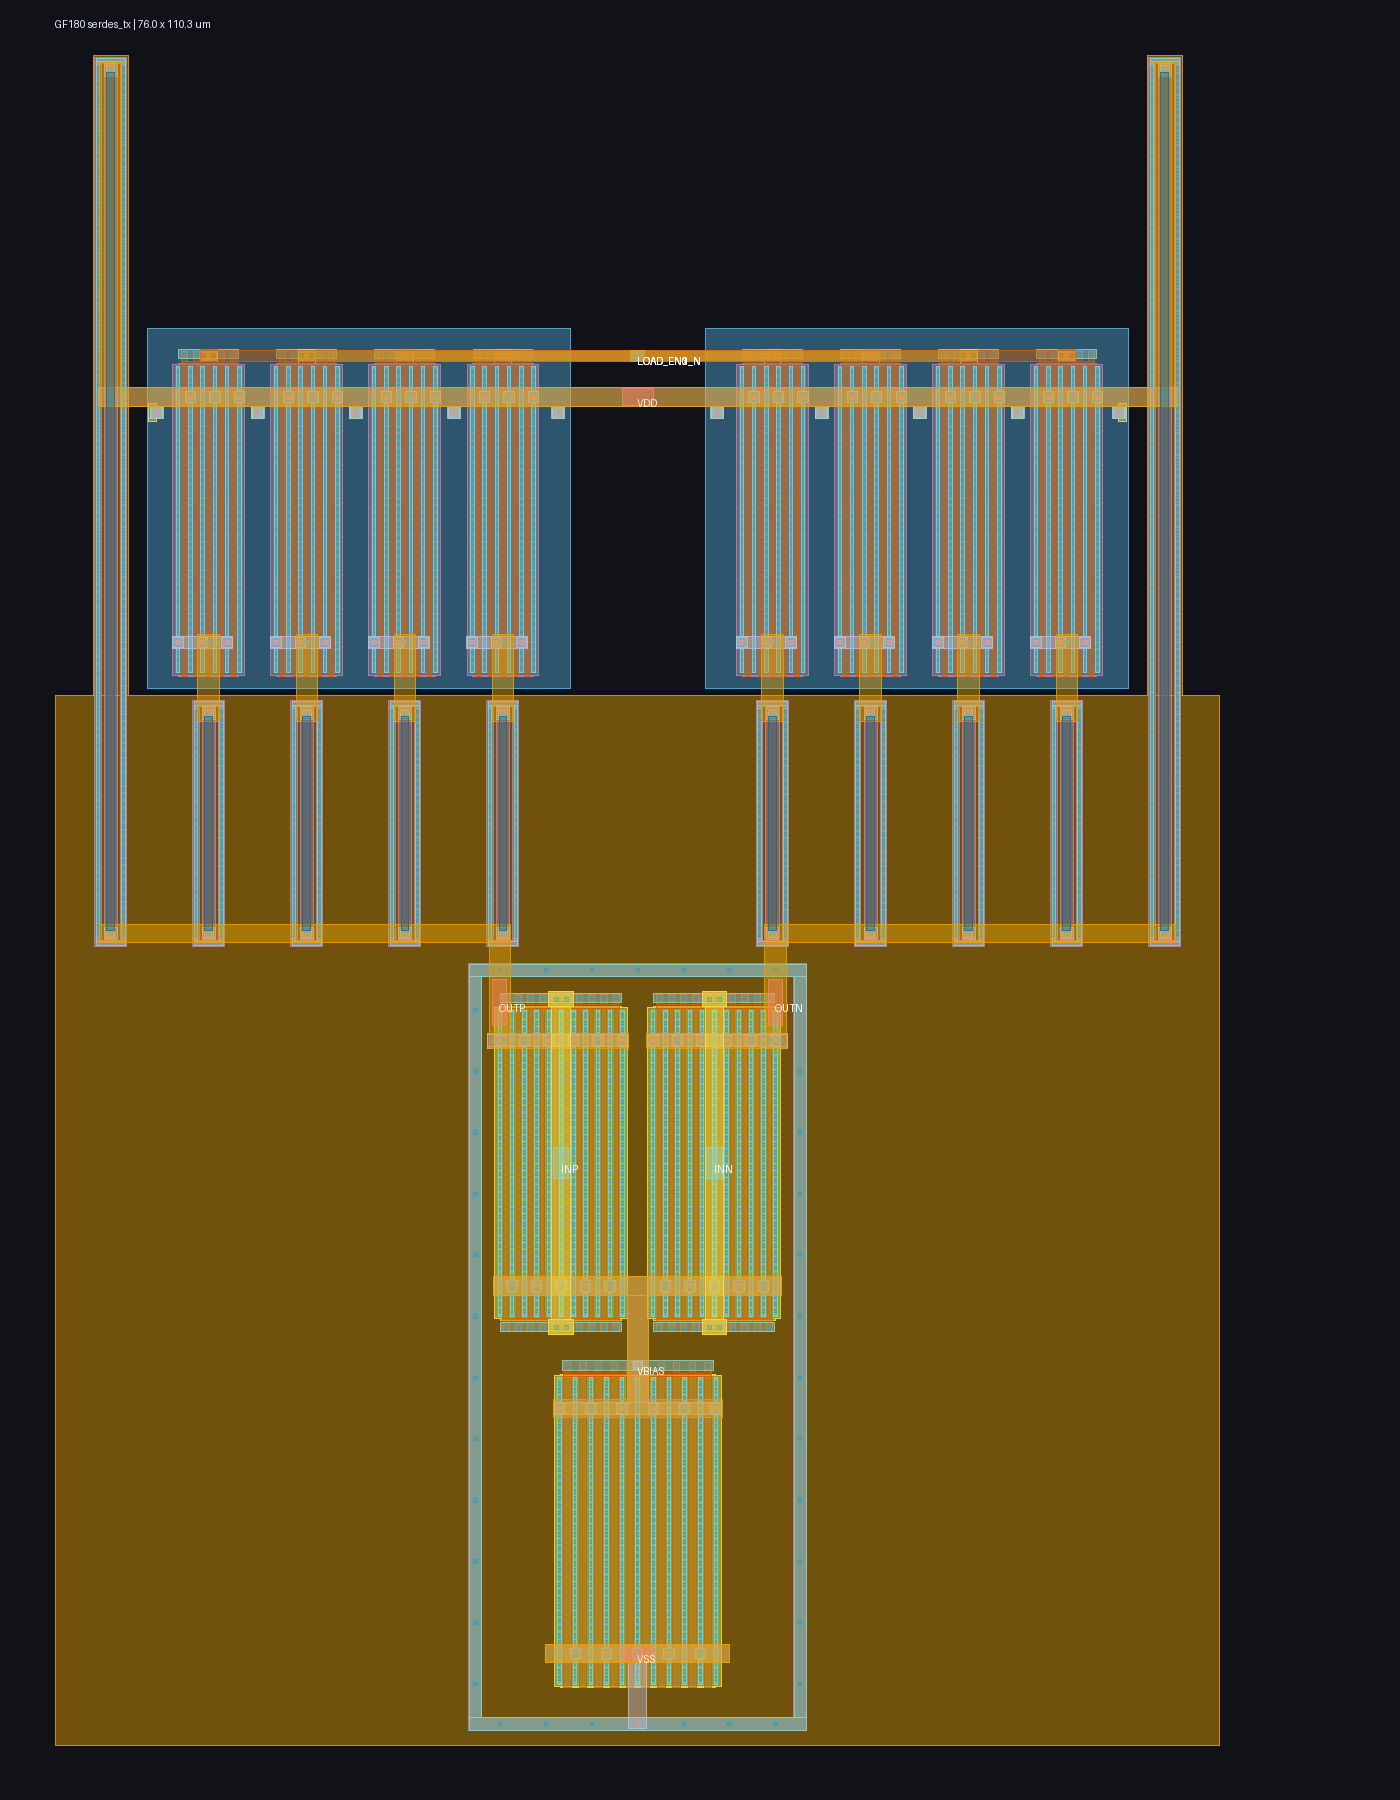
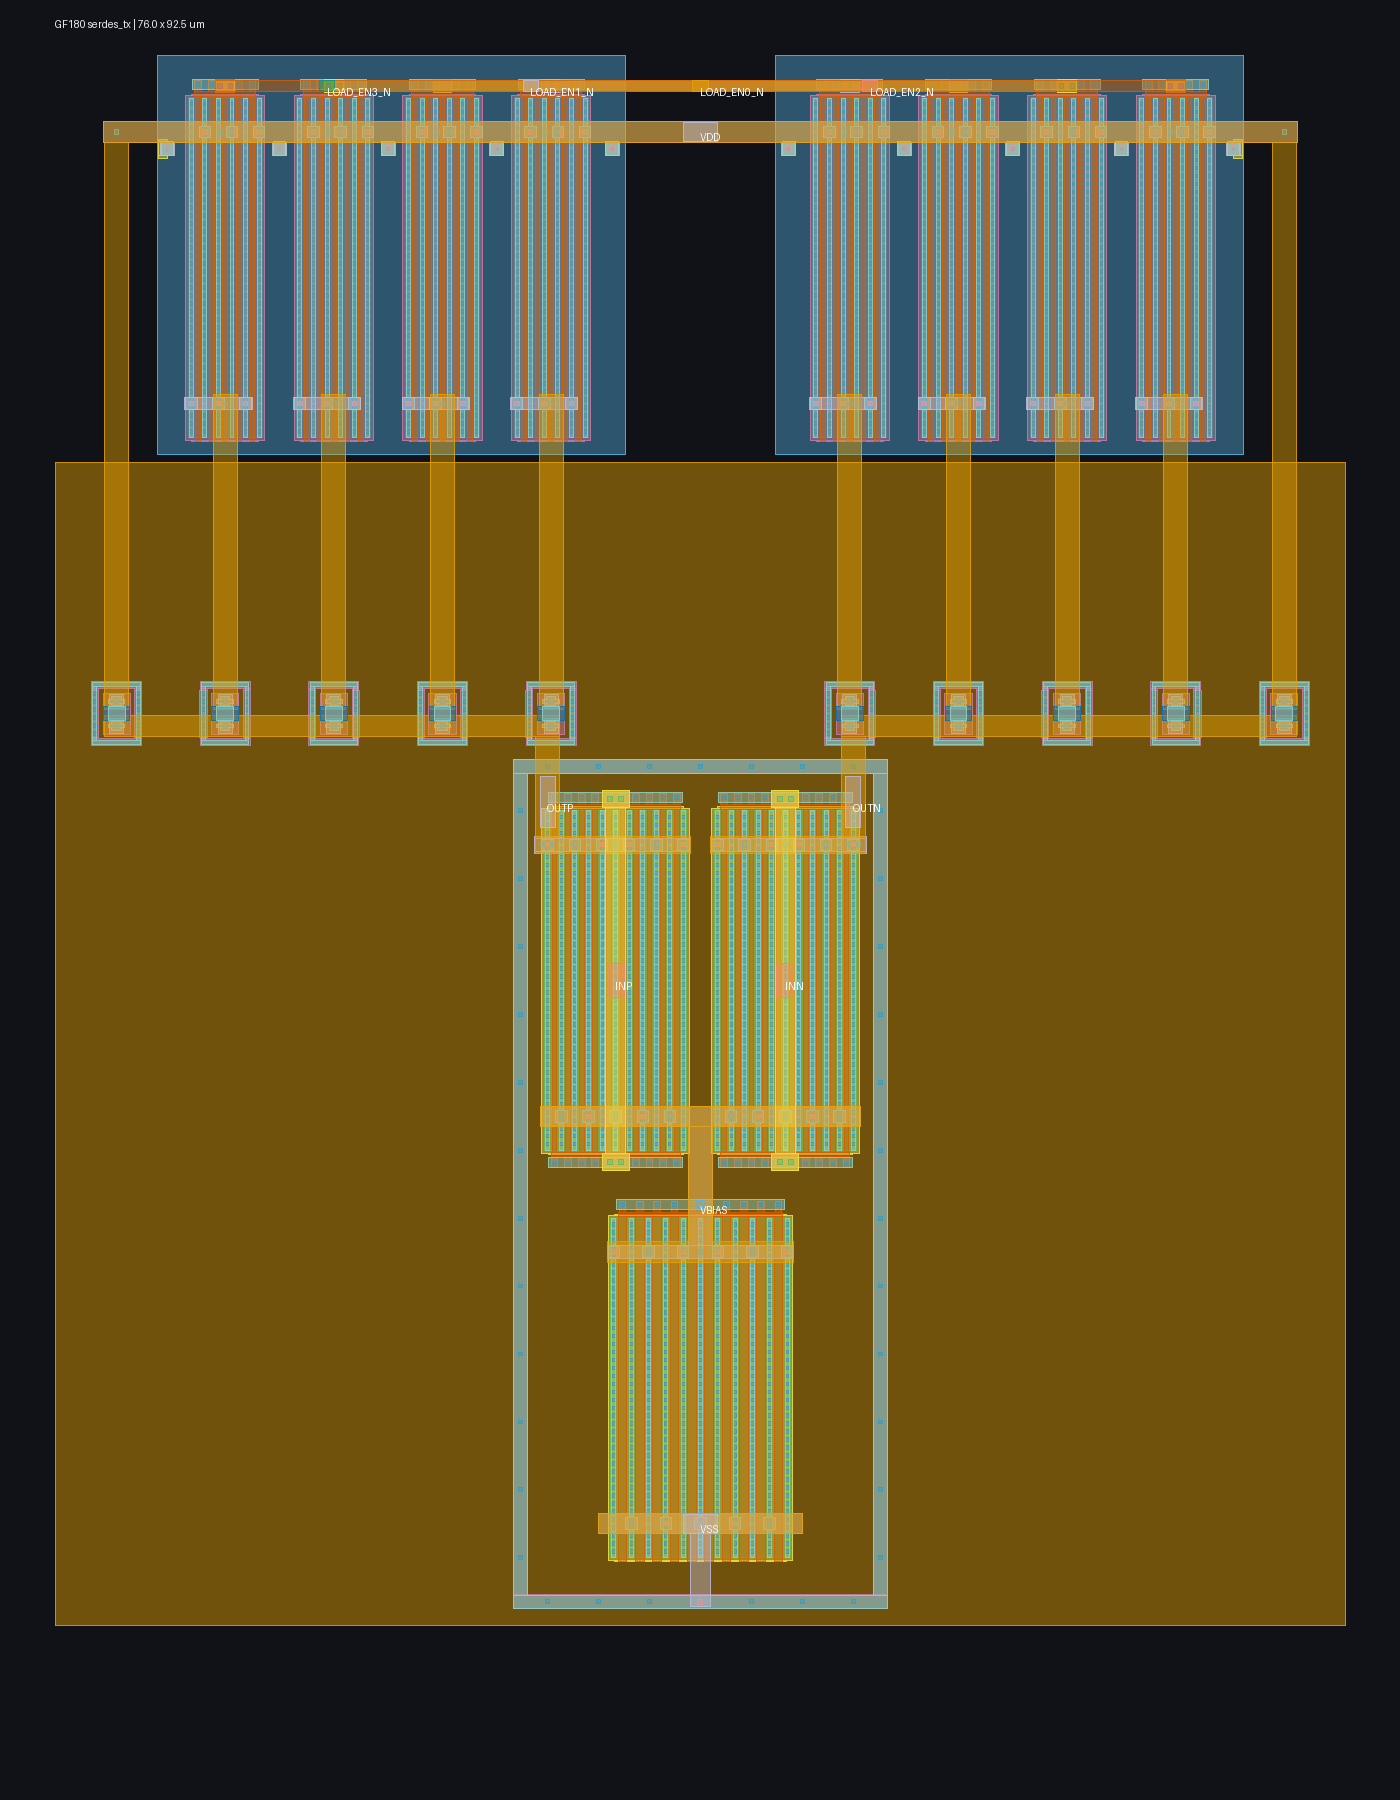
Close extracted transmitter core PVT matrix

diff --git a/ip/blocks/analog/wireline_serdes/serdes_tx/run_programmable_pvt.py b/ip/blocks/analog/wireline_serdes/serdes_tx/run_programmable_pvt.py
@@ -178,6 +178,7 @@ def main() -> None:
                         continue
 
                     enabled = int(selected["enabled_branches"])
+                    tried_codes = {enabled}
                     observed: dict[str, float] = {}
                     core: dict[str, bool] = {}
                     boundary: dict[str, bool] = {}
@@ -211,7 +212,25 @@ def main() -> None:
                                 and min(float(row["outp_v"]), float(row["outn_v"])) >= 1.8
                             ]
                             if not alternatives:
-                                break
+                                lower_code_options = []
+                                for lower_enabled in range(enabled - 1, -1, -1):
+                                    if lower_enabled in tried_codes:
+                                        continue
+                                    option = choose(
+                                        [
+                                            row for row in candidates
+                                            if int(row["enabled_branches"]) == lower_enabled
+                                        ],
+                                        supply,
+                                    )
+                                    if option is not None:
+                                        lower_code_options.append(option)
+                                if not lower_code_options:
+                                    break
+                                selected = lower_code_options[0]
+                                enabled = int(selected["enabled_branches"])
+                                tried_codes.add(enabled)
+                                continue
                             selected = min(
                                 alternatives,
                                 key=lambda row: abs(float(row["current_a"]) - target_current),

diff --git a/ip/blocks/analog/wireline_serdes/serdes_tx/README.md b/ip/blocks/analog/wireline_serdes/serdes_tx/README.md
@@ -1,10 +1,10 @@
 # Experimental GF180 CML transmitter
 
-This directory contains a real transistor-level differential transmitter cell, not a behavioral placeholder. Mirrored salicided p-poly load banks feed a matched 10-finger NMOS differential pair and a 10-finger NMOS tail-current device. Each side has a 56 um always-on resistor and four active-low, PMOS-switched 14 um trim branches. The common thermometer code changes load resistance while `VBIAS` changes tail current; the nominal three-branch, 1.25 V point is selected from extracted simulation rather than assumed from schematic-only current.
+This directory contains a real transistor-level differential transmitter cell, not a behavioral placeholder. Mirrored unsalicided p-poly load banks feed a matched 10-finger NMOS differential pair and a 10-finger NMOS tail-current device. Each side has one always-on resistor and four identical active-low, PMOS-switched trim branches. The common thermometer code changes load resistance while `VBIAS` changes tail current; the nominal four-branch, 1.20 V point is selected from extracted simulation rather than assumed from schematic-only current.
 
 ![Generated GF180 CML transmitter layout](layout.png)
 
-`layout.png` is a directly usable raster rendering of the generated GDS: the mirrored trim banks and their long outer base resistors are at the top, the adjacent differential pair is in the middle, and the centered tail device and contacted substrate guard ring are at the bottom.
+`layout.png` is a directly usable raster rendering of the generated GDS: the mirrored trim banks and compact outer base resistors are above the adjacent differential pair, with the centered tail device and contacted substrate guard ring below.
 
 `layout.tcl` generates and routes GF180 parameterized devices, places the pair banks adjacently with distributed gate contacts, puts the tail directly beneath the shared-source rail, keeps the matched output trunks on metal3 at the outer drain edges, adds redundant via transitions, explicit PMOS well taps, and a continuously contacted substrate guard ring, labels the eleven interface pins, and emits MAG/GDS into disposable scratch. The bounded flow runs bias characterization, pre-layout ngspice, Magic DRC, Netgen LVS, full coupled-RC extraction down to 1 mOhm, extracted ngspice at 1.25 and 2.5 GT/s, and an actual GDS render.
 
@@ -15,3 +15,5 @@ make serdes-tx-smoke
 ```
 
 Passing nominal evidence is written to `scratch/serdes-tx-last.json`; the inspected layout image is `scratch/serdes-tx-layout-last.png`. `run_programmable_pvt.py` separately searches load code and bias over MOS, resistor, voltage, and temperature corners using either schematic or full-RC extracted netlists. These are experimental pre-silicon public-model results. They are not PCIe compliance, package/channel, reliability, or foundry qualification evidence; the pad/ESD boundary is still unmodeled.
+
+The current full-RC matrix passes all 135 core combinations (five MOS corners, three resistor corners, three temperatures, and three supplies). Across those calibrated 2.5 GT/s cases, sampled differential magnitude is 0.522--0.621 V, threshold crossing is 17.0--26.8 ps, average supply current is 5.34--7.43 mA, and the minimum output floor is 2.045 V. The separate pad-boundary ceiling check fails all 135 cases because the standalone ideal-edge/50 fF environment has no selected pad, ESD clamp, or package model; its worst overshoot is 4.23 V. This failure is retained rather than treated as core qualification.
